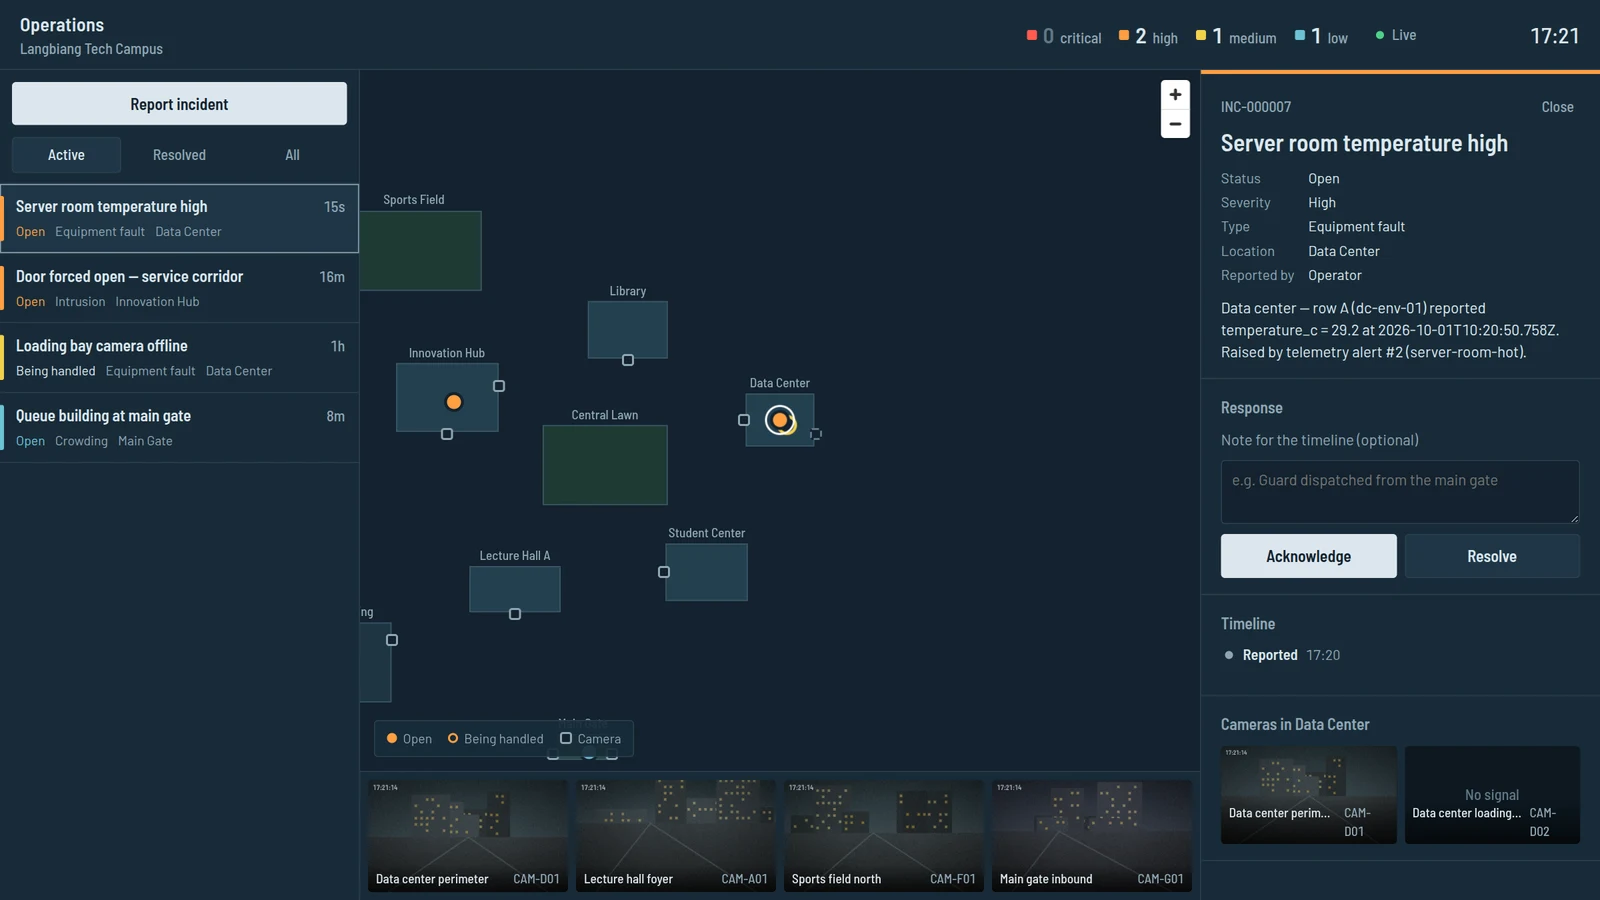
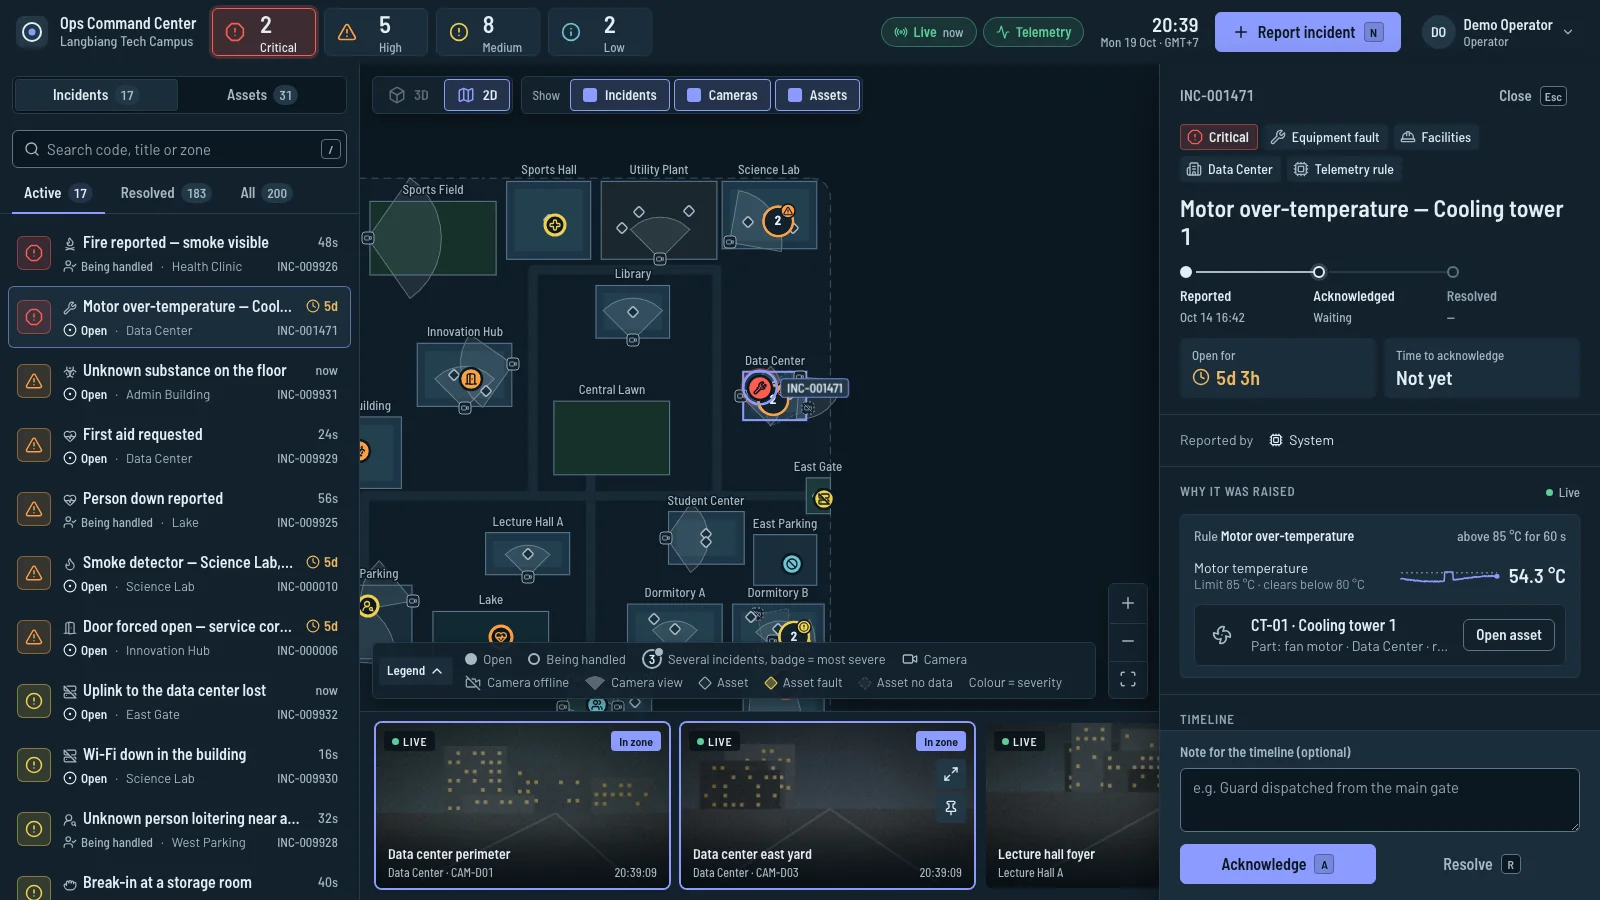
docs(readme): add the pipeline to command center data flow and refresh the screenshot

diff --git a/README.md b/README.md
@@ -97,6 +97,60 @@ Design and trade-offs: [architecture](docs/architecture.md) and seven ADRs —
 [client credentials to the command center](docs/adr/0006-client-credentials-to-the-command-center.md) ·
 [the pipeline as the single telemetry source](docs/adr/0007-pipeline-as-the-single-telemetry-source.md).
 
+## Data flow with ops-command-center
+
+**Today (V1) the data goes one way: from the pipeline to the command center, and only alerts cross.**
+Readings, rollups and rule state stay in the pipeline's own database. The command center never
+reads them and never calls this service's HTTP API; it receives incidents.
+
+```mermaid
+sequenceDiagram
+  participant S as Sensors
+  participant P as Pipeline (ingest)
+  participant DB as PostgreSQL (telemetry)
+  participant K as Keycloak (realm occ)
+  participant O as OCC API
+  participant C as Operator console
+
+  S->>P: MQTT readings (via the broker)
+  P->>DB: readings and rollups, rules evaluated
+  Note over P,DB: a breach that persists opens an alert,<br/>and the alert and its outbox row are written together
+  P->>K: client credentials, get a token
+  P->>O: GET /zones (zone code to zone id)
+  P->>O: POST /incidents (Idempotency-Key: telemetry-alert-id)
+  O-->>C: incident in the right zone
+  Note over P,O: when the value recovers, the alert clears<br/>and the worker calls POST /incidents/id/resolve
+```
+
+- **What crosses:** an incident when an alert opens, and its resolution when the alert clears. Field
+  mapping, retries and the idempotency key are in [system-context.md](docs/system-context.md#22-pipeline--command-center-rest--oidc).
+- **What does not cross:** raw readings, rollups, the device registry and the pipeline's HTTP API
+  (`/api/devices`, `/api/alerts`). No known client calls that API yet; it is for operators and dashboards.
+- **Each side works without the other.** With `OCC_API_URL` unset the pipeline still records alerts and
+  marks their outbox rows `skipped`; the command center keeps its own telemetry path (its own broker,
+  topics, rules and simulator) and does not pass through this pipeline.
+
+**Planned, not built (V2 and V3, on hold until the command center's V2 is done):** the pipeline
+becomes the platform's single telemetry source ([ADR-0007](docs/adr/0007-pipeline-as-the-single-telemetry-source.md)).
+The decisions below may still change, because the integration approach is to be researched first.
+
+```mermaid
+flowchart LR
+  occcat[OCC: asset catalogue] -- "synchronised" --> pipe[Pipeline]
+  dev[[Sensors / simulator]] -- MQTT --> pipe
+  pipe -- "stream + latest-state snapshot<br/>(service token)" --> occapi[OCC API]
+  occapi -- "Socket.IO" --> cons([Consoles])
+  pipe -- "incidents, as today" --> occapi
+```
+
+- The command center owns the asset catalogue; the pipeline synchronises it and maps devices onto it.
+- Realtime goes pipeline → OCC API → consoles. Consoles never connect to the pipeline.
+- The command center drops its own MQTT path (V3) and reads telemetry through the pipeline only.
+  Until then both paths coexist ([V1-T05](docs/tasks/v1/V1-T05-overlap-with-occ-telemetry.md)).
+- Both services share one PostgreSQL database with one schema each and no shared tables.
+- The pipeline's API and stream then become service-to-service interfaces with authentication
+  ([V2 tasks](docs/tasks/v2/README.md)).
+
 ## Run it
 
 ```bash
